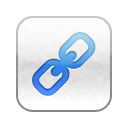
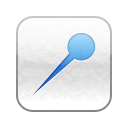
Changing CSSFrag to Pinpoint
CSSFrag is now Pinpoint. Fragment links are now Pinpoints, and you create them instead of generating them. generateFragmentLink() is now createPinpoint(). There's a new icon, with a pin instead of a link symbol. I think the whole thing sounds better, and should be much friendlier to people who have no idea what CSS or fragment links are.

If there are no objections, I'd like this to be the nomenclature for this system, as I think a more approachable name that describes what these extensions/plugins *do* rather than how they do it is likely to see wider adoption (my mother near instantly understood what Pinpoint did. Explaining CSSFrag was…difficult).

The one change I'm rather on the fence about is changing #css() to #pinpoint(). On the side of the latter, people who don't have the extension or plugin for their browser can piece together a google search that would point them to where they can download it ("pinpoint link" versus "CSS link"). But on the side of the former, it respects the draft, and it makes a bit more semantic sense. If we were to switch, all the extension and plugin developers would need to update our code to reflect the change, and add a line or two for backwards compatibility. We can't have anything other than all of us making the change, otherwise we'll be introducing fragmentation, which I for one certainly wouldn't want.

Changed region(s): [[0.25, 0.25, 0.75, 0.75], [0.25, 0.7188, 0.2812, 0.75]]

diff --git a/Pinpoint.safariextension/end.js b/Pinpoint.safariextension/end.js
@@ -1,5 +1,5 @@
 //
-//		CSSFRAG
+//		PINPOINT
 //
 
 function scrollFocusAndHighlight(selector, isCSSSelector, elementIsStatic) {
@@ -10,10 +10,10 @@ function scrollFocusAndHighlight(selector, isCSSSelector, elementIsStatic) {
 	//
 	
 	if (!elementIsStatic) { // If elementIsStatic is not true, it means they may be currently animated.
-		if (!document.getElementById('CSSFragAnimationChecks')) {
+		if (!document.getElementById('pinpointAnimationChecks')) {
 			var animationChecks = document.createElement('script');
 			animationChecks.type = 'text/javascript';
-			animationChecks.id = 'CSSFragAnimationChecks';
+			animationChecks.id = 'pinpointAnimationChecks';
 			animationChecks.innerHTML = 'function checkForAnimation(){var a=document.querySelector(decodeURIComponent(window.location.hash).replace(/#css\\((.+)\\)/,"$1"));if(typeof jQuery==="function"){jQuery(document).ready(function(){var b=10;var c=setInterval(function(){var d=(jQuery(a).filter(":animated").length>0);if(d){b=b+1}else{b=b-1}if(b<1){elementIsStatic(c)}},100)})}else{elementIsStatic()}}window.addEventListener("checkForAnimation",checkForAnimation,true);function elementIsStatic(a){window.clearInterval(a);var b=document.createEvent("Event");b.initEvent("elementIsStatic",true,true);document.dispatchEvent(b)};';
 			document.head.appendChild(animationChecks);
 		}
@@ -46,7 +46,7 @@ function scrollFocusAndHighlight(selector, isCSSSelector, elementIsStatic) {
 		'width': boundingRect.width
 	};
 	
-	if (settings.highlightTarget !== 'none' && (settings.highlightTarget === 'all' || (isCSSSelector && settings.highlightTarget === 'frag'))) {
+	if (settings.highlightTarget !== 'none' && (settings.highlightTarget === 'all' || (isCSSSelector && settings.highlightTarget === 'pinpoints'))) {
 		if ((document.body.scrollLeft <= boundingRect.left) && (boundingRect.left <= document.body.scrollLeft + window.innerWidth) && (document.body.scrollTop <= boundingRect.top) && (boundingRect.top <= document.body.scrollTop + window.innerHeight) && (document.body.scrollLeft <= boundingRect.left + boundingRect.width) && (boundingRect.left + boundingRect.width <= document.body.scrollLeft + window.innerWidth) && (document.body.scrollTop <= boundingRect.top + boundingRect.height) && (boundingRect.top + boundingRect.height <= document.body.scrollTop + window.innerHeight)) {
 			var scroll = {
 				'top': document.body.scrollTop,
@@ -62,13 +62,13 @@ function scrollFocusAndHighlight(selector, isCSSSelector, elementIsStatic) {
 		}
 		
 		var highlightBackground = document.createElement('div');
-		highlightBackground.id = 'CSSFragHighlightBackground';
+		highlightBackground.id = 'pinpointHighlightBackground';
 		highlightBackground.style.left = bounds.left - 5 + "px !important";
 		highlightBackground.style.top = bounds.top - 5 + "px !important";
 		
 		var highlight = element.cloneNode(true);
 		highlight = cloneStyles(element, highlight);
-		highlight.id = "CSSFragHighlight";
+		highlight.id = "pinpointHighlight";
 		highlight.className = "";
 		
 		highlight.style.height += " !important";
@@ -95,15 +95,15 @@ function scrollFocusAndHighlight(selector, isCSSSelector, elementIsStatic) {
 }
 
 
-function generateFragmentLink(event) {
+function createPinpoint(event) {
 	//
-	// Generates fragment links before sending them to showLinkinWindow().
+	// Generates pinpoints before sending them to showLinkinWindow().
 	//
 	
-	if (event.name === 'generateFragmentLink') {
+	if (event.name === 'createPinpoint') {
 		window.settings = safari.self.tab.canLoad(event, 'getSettings');
-		var eventTarget = document.getElementsByClassName("CSSFragTarget")[0];
-		eventTarget.className = eventTarget.className.replace(/ CSSFragTarget/g, "");
+		var eventTarget = document.getElementsByClassName("pinpointTarget")[0];
+		eventTarget.className = eventTarget.className.replace(/ pinpointTarget/g, "");
 		
 		var href = settings.currentURL.split("#")[0];
 		var currentNode = eventTarget;
@@ -200,7 +200,7 @@ function generateFragmentLink(event) {
 	}
 	
 	return true;
-} safari.self.addEventListener('message', generateFragmentLink, false);
+} safari.self.addEventListener('message', createPinpoint, false);
 
 
 function shortenLink(link, service, username, APIKey) {
@@ -245,25 +245,25 @@ function showLinkinWindow(link) {
 	// Shows the link overlay.
 	//
 	
-	if (document.getElementById('CSSFragLinkWrapper') === null) { // Check to see if the overlay elements are already in the page.
+	if (document.getElementById('pinpointLinkWrapper') === null) { // Check to see if the overlay elements are already in the page.
 		linkWrapper = document.createElement('div');
-		linkWrapper.id = "CSSFragLinkWrapper";
+		linkWrapper.id = "pinpointLinkWrapper";
 		linkWrapper.className = "hidden";
 		linkWrapper.addEventListener('click', hideLinkinWindow, false);
-		linkWrapper.innerHTML = '<div id="CSSFragLinkContainer"><div id="CSSFragLinkPadding"><input id="CSSFragLinkInput" name="CSSFragLinkInput" value="" spellcheck="false" autofocus></div></div></div>';
+		linkWrapper.innerHTML = '<div id="pinpointLinkContainer"><div id="pinpointLinkPadding"><input id="pinpointLinkInput" name="pinpointLinkInput" value="" spellcheck="false" autofocus></div></div></div>';
 		document.body.appendChild(linkWrapper);
 		
-		document.getElementById('CSSFragLinkInput').addEventListener('keyup', function(event){ event.target.value = link; event.target.select(); }, false);
+		document.getElementById('pinpointLinkInput').addEventListener('keyup', function(event){ event.target.value = link; event.target.select(); }, false);
 		document.addEventListener('copy', hideLinkinWindow, false);
 		document.addEventListener('cut', hideLinkinWindow, false);
 	}
 	
-	linkInput = document.getElementById('CSSFragLinkInput');
+	linkInput = document.getElementById('pinpointLinkInput');
 	linkInput.value = link;
 	
-	linkWrapper = document.getElementById('CSSFragLinkWrapper');
+	linkWrapper = document.getElementById('pinpointLinkWrapper');
 	linkWrapper.className = "";
-	setTimeout(function() { document.getElementById('CSSFragLinkWrapper').className = "active"; }, 0);
+	setTimeout(function() { document.getElementById('pinpointLinkWrapper').className = "active"; }, 0);
 	linkInput.select();
 	
 	return true;
@@ -272,11 +272,12 @@ function showLinkinWindow(link) {
 
 function hideLinkinWindow(event) {
 	//
-	// Hides the link overlay when the user cuts or copies the link, or clicks outside of the main overlay.
+	// Hides the link overlay when the user cuts or copies the link, or clicks
+	// outside of the main overlay.
 	//
 	
-	if (event.type === 'copy' || event.type === 'cut' || event.target.getAttribute('id') === 'CSSFragLinkWrapper') {
-		linkWrapper = document.getElementById('CSSFragLinkWrapper');
+	if (event.type === 'copy' || event.type === 'cut' || event.target.getAttribute('id') === 'pinpointLinkWrapper') {
+		linkWrapper = document.getElementById('pinpointLinkWrapper');
 		linkWrapper.className = "";
 		
 		setTimeout(function() { linkWrapper.className = "hidden"; }, 600); }
@@ -293,8 +294,8 @@ function hideLinkinWindow(event) {
 
 function dictionaryToSelector(dictionary) {
 	//
-	// Returns a concatenated string of a dictionary's values, removing the
-	// last character if it's ">".
+	// Returns a concatenated string of a dictionary's values, removing the last
+	// character if it's ">".
 	//
 	
 	var string = "";
@@ -316,8 +317,8 @@ function singleElementWithSelector(selector) {
 
 function firstElementWithSelector(selector, element) {
 	//
-	// Returns true if the first element returned by the selector is the same
-	// as the given element.
+	// Returns true if the first element returned by the selector is the same as
+	// the given element.
 	//
 	
 	return (document.querySelector(selector) === element);
@@ -397,7 +398,8 @@ function cloneStyles(element, clone) {
 
 function handleElementIsStatic(event) {
 	//
-	// Called by the animation check functions, hands off to handleLoadAndHashChange() when there is a lull in element animation.
+	// Called by the animation check functions, hands off to
+	// handleLoadAndHashChange() when there is a lull in element animation.
 	//
 	handleLoadAndHashChange(event, true);
 	
@@ -407,15 +409,15 @@ function handleElementIsStatic(event) {
 
 function handleLoadAndHashChange(event, elementIsStatic) {
 	//
-	// Checks for a fragment link (or any hash, if the user wants highlighting)
-	// on page loads and hash changes, and calls scrollFocusAndHighlight() if
-	// it finds one.
+	// Checks for a pinpoint (or any hash, if the user wants highlighting) on
+	// page loads and hash changes, and calls scrollFocusAndHighlight() if it
+	// finds one.
 	//
 	
 	window.settings = safari.self.tab.canLoad(event, 'getSettings');
-	var CSSFragHash = decodeURIComponent(window.location.hash).match(/css\((.+)\)/);
+	var pinpoint = decodeURIComponent(window.location.hash).match(/css\((.+)\)/);
 	
-	if (CSSFragHash) { scrollFocusAndHighlight(CSSFragHash[1], true, elementIsStatic); }
+	if (pinpoint) { scrollFocusAndHighlight(pinpoint[1], true, elementIsStatic); }
 	else if (settings.highlightTarget === 'all' && window.location.hash !== '') { scrollFocusAndHighlight(window.location.hash, false, elementIsStatic); }
 	
 	return true;
@@ -424,20 +426,20 @@ function handleLoadAndHashChange(event, elementIsStatic) {
 
 function handleContextMenu(event) {
 	//
-	// Attaches the "CSSFragTarget" class to the event target, and if it is a
-	// fragment linkable element, sets userInfo.display to true.
+	// Attaches the "pinpointTarget" class to the event target, and if it is a
+	// linkable element, sets userInfo.display to true.
 	//
 	
 	var nodeName = event.target.nodeName.toLowerCase();
 	var nodeID = event.target.getAttribute('id');
 	
-	var eventTargets = document.getElementsByClassName("CSSFragTarget"); // Safari doesn't allow passing elements through setContextMenuEventUserInfo.
+	var eventTargets = document.getElementsByClassName("pinpointTarget"); // Safari doesn't allow passing elements through setContextMenuEventUserInfo.
 	for (var i = 0, length = eventTargets.length; i < length; i++) {
-		eventTargets[i].className = eventTargets[i].className.replace(/ CSSFragTarget/g, "");
+		eventTargets[i].className = eventTargets[i].className.replace(/ pinpointTarget/g, "");
 	}
-	event.target.className += " CSSFragTarget";
+	event.target.className += " pinpointTarget";
 	
-	safari.self.tab.setContextMenuEventUserInfo(event, { 'display': (nodeName !== 'body' && nodeName !== 'head' && nodeName !== 'html' && nodeName !== '#document' && (nodeID === null || !nodeID.match(/CSSFrag/g))) });
+	safari.self.tab.setContextMenuEventUserInfo(event, { 'display': (nodeName !== 'body' && nodeName !== 'head' && nodeName !== 'html' && nodeName !== '#document' && (nodeID === null || !nodeID.match(/pinpoint/g))) });
 	
 	return true;
 } document.addEventListener('contextmenu', handleContextMenu, false);

diff --git a/Pinpoint.safariextension/style.css b/Pinpoint.safariextension/style.css
@@ -2,7 +2,7 @@
 //	Link Overlay
 */
 
-#CSSFragLinkWrapper {
+#pinpointLinkWrapper {
 	display: block !important;
 	position: fixed !important;
 	z-index: 99999999 !important;
@@ -17,7 +17,7 @@
 	pointer-events: auto !important;
 }
 
-#CSSFragLinkContainer {
+#pinpointLinkContainer {
 	display: block !important;
 	position: absolute !important;
 	height: 80px !important;
@@ -36,12 +36,12 @@
 	-webkit-transition-timing-function: ease-out, ease-out !important;
 }
 
-#CSSFragLinkPadding {
+#pinpointLinkPadding {
 	padding-left: 10px !important;
 	padding-right: 10px !important;
 }
 
-input#CSSFragLinkInput {
+input#pinpointLinkInput {
 	display: block !important;
 	height: 60px !important;
 	width: 100% !important;
@@ -54,23 +54,23 @@ input#CSSFragLinkInput {
 	text-align: center !important;
 }
 
-input#CSSFragLinkInput:focus { outline: none !important; }
+input#pinpointLinkInput:focus { outline: none !important; }
 
-#CSSFragLinkWrapper.active { opacity: 1 !important; }
+#pinpointLinkWrapper.active { opacity: 1 !important; }
 
-#CSSFragLinkWrapper.active > #CSSFragLinkContainer {
+#pinpointLinkWrapper.active > #pinpointLinkContainer {
 	opacity: 1 !important;
 	-webkit-transform: scale(1) !important;
 }
 
-#CSSFragLinkWrapper.hidden { display: none !important; pointer-events: none !important; }
+#pinpointLinkWrapper.hidden { display: none !important; pointer-events: none !important; }
 
 
 /*
 //	Element Highlighting
 */
 
-#CSSFragHighlightBackground {
+#pinpointHighlightBackground {
 	display: block !important;
 	position: absolute !important;
 	overflow: hidden !important;
@@ -84,12 +84,12 @@ input#CSSFragLinkInput:focus { outline: none !important; }
 	border: 1px solid #f7e74d !important;
 	border-radius: 5px !important;
 	box-shadow: 0px 1px 1px 1px rgba(0, 0, 0, 0.40) !important;
-	-webkit-animation-name: CSSFragHighlight !important;
+	-webkit-animation-name: pinpointHighlight !important;
 	-webkit-animation-duration: 1.6s !important;
 	pointer-events: none !important;
 }
 
-@-webkit-keyframes CSSFragHighlight {
+@-webkit-keyframes pinpointHighlight {
 	0% {
 		-webkit-transform: scale(0);
 		opacity: 1;
@@ -108,7 +108,7 @@ input#CSSFragLinkInput:focus { outline: none !important; }
 	}
 }
 
-#CSSFragHighlight[style] {
+#pinpointHighlight[style] {
 	position: relative !important;
 	z-index: 9999999999 !important;
 	top: 0 !important;
@@ -122,10 +122,10 @@ input#CSSFragLinkInput:focus { outline: none !important; }
 	pointer-events: none !important;
 }
 
-#CSSFragHighlight[style] *[style] {
+#pinpointHighlight[style] *[style] {
 	-webkit-text-fill-color: #000 !important;
 	-webkit-font-smoothing: antialiased !important;
 	pointer-events: none !important;
 }
 
-#CSSFragHighlight.noChildren[style] { padding: 0px 0px 0px 0px !important; }
+#pinpointHighlight.noChildren[style] { padding: 0px 0px 0px 0px !important; }

diff --git a/Pinpoint.safariextension/global.html b/Pinpoint.safariextension/global.html
@@ -10,19 +10,19 @@
 		//
 		
 		if (event.userInfo && event.userInfo.display) {
-			event.contextMenu.appendContextMenuItem('generateFragmentLink', "Generate Fragment Link");
+			event.contextMenu.appendContextMenuItem('createPinpoint', "Create Pinpoint");
 		}
 	} safari.application.addEventListener('contextmenu', handleContextMenu, false);
 
 
 	function handleCommand(event) {
 		//
-		// Calls end.js' handleMessage() to generate a fragment link if the
-		// user selects the context menu item.
+		// Calls end.js' handleMessage() to create a pinpoint if the user
+		// selects the context menu item.
 		//
 		
-		if (event.command === 'generateFragmentLink') {
-			safari.application.activeBrowserWindow.activeTab.page.dispatchMessage('generateFragmentLink');
+		if (event.command === 'createPinpoint') {
+			safari.application.activeBrowserWindow.activeTab.page.dispatchMessage('createPinpoint');
 		}
 	} safari.application.addEventListener('command', handleCommand, false);
 
